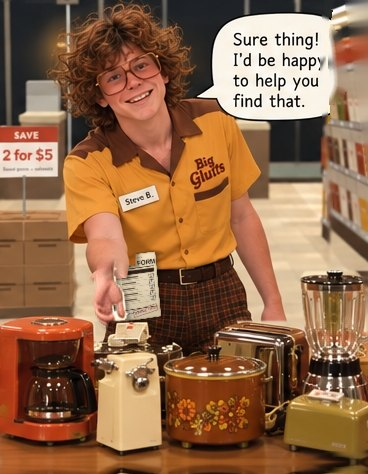
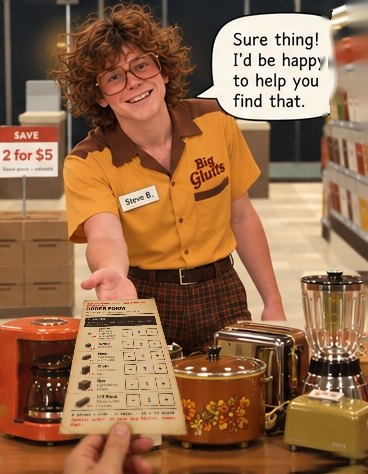
Clerk frames back to the originals, your hand (the user's photo) offering the form in "Sure thing!"; the trip starts wide, zooms and pans, 1.75x slower
Claude-Session: https://claude.ai/code/session_01MBPPNbw7PWwvpcuEmuKfZK

Changed region(s): [[0.1495, 0.5316, 0.5082, 1.0]]

diff --git a/themes/den-trip.js b/themes/den-trip.js
@@ -19,18 +19,19 @@ const DAY_URL = "el-cabeza-trip-day.jpg";
 const DUSK_URL = "el-cabeza-trip-dusk.jpg";
 
 // The timeline (ms from the card starting to fade).
+// (All of it 1.75 times as long as it was, user: it went by too fast.)
 const T = {
-  blackIn: [2600, 4200],     // to black, the car pulling away
-  arrive: 5200,              // the car coming in (heard through the fade-in)
-  fadeUp: [5600, 9600],      // up from black onto the store
-  sweep: [5000, 11900],      // the look round: a slow sweep along the front, close, eye level
-  rise: [11700, 17600],      // then up and out, to the sky and the sphere behind the building
-  say1: [10000, 13200],      // "What the...!??"
-  morph: [11600, 16400],     // into dusk, the sphere in the sky
-  say2: [15200, 17800],      // "Time to get the heck out of here!"
-  blackOut: [17400, 18900],  // to black
-  home: 19000,               // the den, the Room view
-  fadeHome: [19200, 21000],  // up from black, home
+  blackIn: [4550, 7350],     // to black, the car pulling away
+  arrive: 9800,              // the car coming in (heard through the fade-in)
+  fadeUp: [10200, 17000],    // up from black onto the store
+  sweep: [10200, 20800],     // the look round: from the whole storefront, in close and along it
+  rise: [20500, 30800],      // then up and out, to the sky and the sphere behind the building
+  say1: [17500, 23100],      // "What the...!??"
+  morph: [20300, 28700],     // into dusk, the sphere in the sky
+  say2: [26600, 31200],      // "Time to get the heck out of here!"
+  blackOut: [30500, 33100],  // to black
+  home: 33300,               // the den, the Room view
+  fadeHome: [33600, 36800],  // up from black, home
 };
 const LINES = ["What the…!??", "Time to get the heck out of here!"];
 
@@ -214,8 +215,8 @@ export function createTrip({ audio, onReturn }) {
     const w = Math.round(canvas.clientWidth * dpr), h = Math.round(canvas.clientHeight * dpr);
     if (canvas.width !== w || canvas.height !== h) { canvas.width = w; canvas.height = h; }
   }
-  /* One frame. The camera: first close and at eye level, sweeping slowly
-     along the storefront from left to right (taking it in); then, as the
+  /* One frame. The camera: first the whole storefront, then in close and
+     along it, to the right, down to eye level (taking it in); then, as the
      day turns to dusk and the sphere comes through behind the building,
      it tilts up and pulls back, slow and wide, until the sphere looms
      over the store. (Framing in the picture's own terms: a zoom over
@@ -233,9 +234,12 @@ export function createTrip({ audio, onReturn }) {
     const sw = sm(span(t, T.sweep));
     const ri = span(t, T.rise), r = ri * ri * ri * (ri * (ri * 6 - 15) + 10); // (smoother still: slow out, slow in)
     // (A tall screen already crops the picture's sides: less zoom there.)
-    const tall = W < H, z0 = tall ? 1.12 : 1.6;
-    const zoom = z0 + 0.06 * sw - (z0 - 1) * r;             // close, a touch closer, then out to the whole
-    let cx = 0.14 + 0.72 * sw, cy = 0.66 - 0.02 * sw;       // along the front, eye level
+    // (User: zoomed out at first, then zoom and pan.) The whole storefront
+    // as it fades up; then in, closer, and along it to the right; then
+    // up and out again. (A tall screen already crops the sides: less zoom.)
+    const tall = W < H, zs = tall ? 1.18 : 1.5;
+    const zoom = 1 + (zs - 1) * sw - (zs - 1) * r;
+    let cx = 0.36 + 0.46 * sw, cy = 0.5 + 0.14 * sw;        // from the middle, in and along the front, down to eye level
     cx += ((tall ? 0.3 : 0.36) - cx) * r; cy += (0.4 - cy) * r; // up, and toward the sphere
     const s = cover * zoom, dw = iw * s, dh = ih * s;
     const x = Math.min(0, Math.max(W - dw, W / 2 - cx * dw));

diff --git a/tools/tienda_clerk_frames.py b/tools/tienda_clerk_frames.py
@@ -362,249 +362,43 @@ def over(dst, layer, dx=0, dy=0, scale=1.0):
     return np.array(Image.alpha_composite(base, canvas).convert("RGB"))
 
 
-# The order form you hand over, in the clerk's hand in "Sure thing!"
-# (user): a prop of the game's own form (themes/tienda-overlay.js
-# OrderForm: aged cream paper, the department line in red, ORDER FORM in
-# heavy black over a rule, the dark section band, the ruled rows with their
-# quantities in blue, the red stamp), drawn large, then set into the frame
-# standing up in his palm, leaning back a little, his thumb in front of it.
-FONT = "/usr/share/fonts/truetype/liberation/LiberationSans-Bold.ttf"
-MONO = "/usr/share/fonts/truetype/liberation/LiberationMono-Bold.ttf"
-# "Sure thing!": his open hand taken out; in its place his own hand from
-# the walk-away frame (real, curled, the same light), scaled and turned to
-# his wrist here, closed round the form; the form behind his hand and arm,
-# against his palm, rising up beside his arm. (Frame coordinates, after
-# CROP; done before the table's spread goes over, so the appliances stay
-# in front of his hand.)
-OPEN_HAND = (74, 266, 152, 326)  # where the open hand was (skin in here goes)
-GO_HAND = (104, 194, 140, 250)   # the walk-away frame: his curled right hand and the end of his forearm
-GO_WRIST = (122.0, 206.0)        # its wrist's middle there
-SURE_WRIST = (105.5, 271.0)      # and where it joins his arm here
-HAND_SCALE = 1.65
-HAND_TURN = 6.0                  # degrees (his forearm leans a little here)
-SURE_SHEET = [(109, 257), (155, 251), (161, 316), (116, 323)]  # the form: TL, TR, BR, BL (its left edge through the pinch between his thumb and fingers)
-FOREARM = (80, 196, 136, 278)    # his forearm here (stays in front of the form)
+# "Sure thing!" (user, round 5): the frame as it was, and over it the
+# user's own photo of your hand holding the order form out to him
+# (storyboard/offer-hand.png, cut out on alpha). Its form's four corners
+# are set onto a quad tilted back toward his open palm, so the photo's
+# own slight lean is carried on and foreshortened; the hand below the
+# form comes on in by the same mapping, larger as it nears the lens and
+# off the bottom of the shot. Near the camera, so it's a touch soft, in
+# the store's warm light.
+OFFER_SRC = [(144, 71), (833, 98), (919, 1379), (18, 1379)]   # the photo's form: TL, TR, BR, BL
+OFFER_DST = [(84, 300), (154, 298), (186, 428), (58, 432)]    # where they land: its top just under his palm, your wrist off the bottom
 
 
-# "I'll go check on that...": the form carried in his hanging right hand,
-# its top corner pinched in the gap between his thumb and fingers (x
-# 124-126, y 228-236: the floor shows through it), his thumb in front of
-# it; it hangs below, turned a little (so narrower than flat).
-HANG_SHEET = [(124.5, 229), (142, 233), (140, 283), (121, 279)]  # TL (in the pinch), TR, BR, BL
-
-
-def order_form_art(w=448, h=592):
-    from PIL import ImageFont
-    rng = np.random.default_rng(1975)
-    paper = np.zeros((h, w, 3), np.float32) + np.array([240, 230, 206], np.float32)
-    # Age: a soft mottle, a couple of foxing spots, darker toward the edges.
-    mott = cv2.GaussianBlur(rng.normal(0, 1, (h, w)).astype(np.float32), (0, 0), 24)
-    paper += (mott / (np.abs(mott).max() + 1e-6))[..., None] * np.array([6, 7, 10], np.float32)
-    yy, xx = np.mgrid[0:h, 0:w]
-    edge = np.minimum.reduce([xx, yy, w - 1 - xx, h - 1 - yy]).astype(np.float32)
-    paper -= (np.clip(1 - edge / 36, 0, 1) ** 2)[..., None] * np.array([16, 20, 28], np.float32)
-    for cx, cy, r in [(380, 120, 9), (70, 430, 7)]:
-        d = np.hypot(xx - cx, yy - cy)
-        paper -= (np.clip(1 - d / r, 0, 1) ** 0.7)[..., None] * np.array([16, 24, 36], np.float32)
-    im = Image.fromarray(np.clip(paper, 0, 255).astype(np.uint8))
-    g = ImageDraw.Draw(im)
-    INK, RED, BLUE = (40, 30, 24), (154, 59, 48), (38, 58, 140)
-    TYPE, FINE, RULE = (92, 78, 66), (168, 154, 134), (176, 160, 134)
-    f = lambda path, size: ImageFont.truetype(path, size)
-    m = 30
-    g.text((m, 26), "GAMES & HOBBY DEPT. \u00b7 1975", font=f(FONT, 19), fill=RED)
-    g.text((m - 3, 50), "ORDER FORM", font=f(FONT, 60), fill=INK)
-    g.rectangle([m, 122, w - m, 127], fill=INK)
-    # The section band.
-    g.rectangle([m, 142, w - m, 176], fill=(51, 37, 27))
-    g.text((m + 12, 148), "1 \u00b7 PIECES", font=f(FONT, 20), fill=(236, 226, 204))
-    # The rows: the item (type too small to read, as a line of grey), the
-    # quantity box with a figure in blue ink.
-    names = [0.36, 0.30, 0.26, 0.32, 0.28]
-    qty = ["1", "1", "2", "1", "3"]
-    for i, (nw, q) in enumerate(zip(names, qty)):
-        y = 188 + i * 50
-        g.rectangle([m + 4, y + 12, m + 50, y + 17], fill=FINE)  # stock no.
-        g.rectangle([m + 66, y + 9, m + 66 + int(nw * w), y + 18], fill=TYPE)  # name
-        g.rectangle([m + 66, y + 27, m + 66 + int(nw * w * 1.25), y + 31], fill=FINE)  # description
-        bx = w - m - 58
-        g.rectangle([bx, y + 6, bx + 50, y + 40], outline=INK, width=3)
-        g.text((bx + 15, y + 6), q, font=f(MONO, 30), fill=BLUE)
-        g.line([m, y + 48, w - m, y + 48], fill=RULE, width=2)
-    # The foot: the rule, a signature in blue.
-    g.rectangle([m, h - 104, w - m, h - 100], fill=INK)
-    g.text((m, h - 90), "SIGNED", font=f(FONT, 16), fill=RED)
-    pts = [(m + 84 + i * 8, h - 66 + 8 * np.sin(i * 1.3) - i * 0.5) for i in range(22)]
-    g.line(pts, fill=BLUE, width=4, joint="curve")
-    # The red stamp by the signature, at a slant, faint and uneven.
-    st = Image.new("L", (250, 74), 0)
-    sd = ImageDraw.Draw(st)
-    sd.rectangle([4, 4, 245, 69], outline=255, width=6)
-    sd.text((18, 14), "STORE ORDER", font=f(FONT, 37), fill=255)
-    st = st.rotate(9, expand=True, resample=Image.BICUBIC)
-    a = np.array(st).astype(np.float32) / 255 * (0.5 + 0.35 * rng.random(st.size[::-1]))
-    a = np.clip(cv2.GaussianBlur(a, (0, 0), 1.0), 0, 1)
-    arr = np.array(im).astype(np.float32)
-    ox, oy = w - st.size[0] - 22, h - st.size[1] - 18
-    region = arr[oy:oy + st.size[1], ox:ox + st.size[0]]
-    region[:] = region * (1 - a[..., None]) + np.array(RED, np.float32) * a[..., None]
-    return arr.astype(np.uint8)
-
-
-def _skin(reg):
-    R, G, B = reg[..., 0].astype(int), reg[..., 1].astype(int), reg[..., 2].astype(int)
-    return (R > 140) & (R - G > 30) & (R - B > 40)
-
-
-def _capsule(xx, yy, p0, p1, r):
-    """Signed distance to a capsule from p0 to p1, radius r."""
-    (x0, y0), (x1, y1) = p0, p1
-    dx, dy = x1 - x0, y1 - y0
-    t = np.clip(((xx - x0) * dx + (yy - y0) * dy) / (dx * dx + dy * dy + 1e-9), 0, 1)
-    return np.hypot(xx - (x0 + t * dx), yy - (y0 + t * dy)) - r
-
-
-def lift_hand(go):
-    """His curled right hand from the walk-away frame (GO_HAND), off the
-    floor it was shot against: (colour, alpha) at that frame's size. The
-    floor behind it is estimated by painting the hand out; each pixel's
-    share of hand is how far it is from that floor; its colour is the floor
-    taken back out (on the faintest edge pixels, his skin's). The forearm
-    fades in over its top 14 px (it joins his own arm there)."""
-    H_, W_ = go.shape[:2]
-    x0, y0, x1, y1 = GO_HAND
-    reg = go[y0:y1, x0:x1]
-    f = reg.astype(np.float32)
-    core = _skin(reg).astype(np.uint8)
-    n, lab, st, _ = cv2.connectedComponentsWithStats(core, 8)
-    if n > 1:
-        core = (lab == 1 + int(np.argmax(st[1:, cv2.CC_STAT_AREA]))).astype(np.uint8)
-    wide = cv2.dilate(core, np.ones((3, 3), np.uint8), iterations=3)
-    # How far each pixel is from the floor toward his skin (the slit of
-    # floor between thumb and fingers comes out as floor, as it should).
-    floor = np.median(f[wide == 0], axis=0)
-    skinc = np.median(f[core > 0], axis=0)
-    axis = skinc - floor
-    tproj = ((f - floor) @ axis) / (axis @ axis)
-    a = np.clip((tproj - 0.18) / 0.55, 0, 1) * (wide > 0)
-    # (Solid where it's surely hand: his pale highlights included.)
-    solid = cv2.erode(core, np.ones((2, 2), np.uint8)) > 0
-    a[solid] = 1
-    a = cv2.GaussianBlur(a, (0, 0), 0.4)
-    a *= np.clip(np.arange(y1 - y0, dtype=np.float32)[:, None] / 14, 0, 1)
-    fg = floor + (f - floor) / np.maximum(a, 0.5)[..., None]
-    w = np.clip((a - 0.25) / 0.5, 0, 1)[..., None]
-    fg = skinc * (1 - w) + np.clip(fg, 0, 255) * w
-    # (Round the hand, its own skin colour, not black: the scale-up and the
-    # sharpening after it then ring on nothing at its edge.)
-    a = cv2.erode(a, np.ones((2, 2), np.uint8))
-    C = np.zeros((H_, W_, 3), np.float32) + skinc; C[y0:y1, x0:x1] = fg * (a[..., None] > 0.02) + skinc * (a[..., None] <= 0.02)
-    A = np.zeros((H_, W_), np.float32); A[y0:y1, x0:x1] = a
-    return C, A, skinc
-
-
-def hold_order_form(img, partner=None, go=None):
-    """'Sure thing!': the open hand out, the form in, his real hand round
-    it (see the constants above)."""
+def offer_order_form(img):
     H_, W_ = img.shape[:2]
-    base = img.copy()
-    # His skin here (the forearm, near the wrist: the back of a hand is
-    # the forearm's colour, not the palm's).
-    fx0, fy0, fx1, fy1 = FOREARM
-    freg = img[fy0:fy1, fx0:fx1]
-    fsk = _skin(freg)
-    skin_here = np.median(freg[fsk].reshape(-1, 3).astype(np.float32)[-400:], axis=0)
-    # The open hand out (its skin in OPEN_HAND below the wrist), the
-    # background painted back from round it: the "Hi there" frame (the same
-    # camera) where it shows no hand of its own, the rest painted in.
-    x0, y0, x1, y1 = OPEN_HAND
-    hand = np.zeros((H_, W_), np.uint8)
-    hand[y0:y1, x0:x1] = _skin(base[y0:y1, x0:x1])
-    hand[:274] = 0
-    hand = cv2.dilate(hand, np.ones((3, 3), np.uint8), iterations=2) > 0
-    if partner is not None:
-        ok = np.zeros((H_, W_), bool)
-        ok[y0:y1, x0:x1] = ~cv2.dilate(_skin(partner[y0:y1, x0:x1]).astype(np.uint8), np.ones((5, 5), np.uint8), iterations=2).astype(bool)
-        take = hand & ok
-        base[take] = partner[take]
-        hand &= ~take
-    base = cv2.inpaint(base, hand.astype(np.uint8) * 255, 5, cv2.INPAINT_TELEA)
-    out = base.astype(np.float32)
-    # The form: up beside his arm, against his palm, its foot in his hand;
-    # lit from above, its shadow on him.
-    art = order_form_art().astype(np.float32)
-    ah, aw = art.shape[:2]
-    art *= np.linspace(1.0, 0.86, ah, dtype=np.float32)[:, None, None] * np.array([1.0, 0.97, 0.92], np.float32)
-    small = art
-    for _ in range(2):
-        small = cv2.resize(small, (small.shape[1] // 2, small.shape[0] // 2), interpolation=cv2.INTER_AREA)
-    sh_, sw_ = small.shape[:2]
-    M = cv2.getPerspectiveTransform(np.float32([[0, 0], [sw_, 0], [sw_, sh_], [0, sh_]]), np.float32(SURE_SHEET))
-    sheet = cv2.GaussianBlur(cv2.warpPerspective(small, M, (W_, H_), flags=cv2.INTER_AREA), (0, 0), 0.45)
-    alpha = cv2.GaussianBlur(cv2.warpPerspective(np.ones((sh_, sw_), np.float32), M, (W_, H_), flags=cv2.INTER_LINEAR), (0, 0), 0.45)
-    shd = cv2.GaussianBlur(np.roll(np.roll(alpha, 3, axis=1), 2, axis=0), (0, 0), 2.2) * 0.35
-    out *= (1 - shd)[..., None]
-    out = out * (1 - alpha[..., None]) + sheet * alpha[..., None]
-    # His forearm back in front of it (his own pixels).
-    arm = np.zeros((H_, W_), np.uint8)
-    arm[fy0:fy1, fx0:fx1] = fsk
-    n, lab, st, _ = cv2.connectedComponentsWithStats(arm, 8)
-    if n > 1:
-        arm = (lab == 1 + int(np.argmax(st[1:, cv2.CC_STAT_AREA]))).astype(np.uint8)
-    arm = cv2.morphologyEx(arm, cv2.MORPH_CLOSE, np.ones((3, 3), np.uint8))
-    am = cv2.GaussianBlur(arm.astype(np.float32), (0, 0), 0.6)
-    ash = cv2.GaussianBlur(np.roll(np.roll(am, 3, axis=1), 2, axis=0), (0, 0), 1.6) * alpha * 0.4
-    out *= (1 - ash * (1 - am))[..., None]
-    out = out * (1 - am[..., None]) + img.astype(np.float32) * am[..., None]
-    # His hand: lifted from the walk-away frame, its colour brought to his
-    # skin here, scaled and turned about its wrist onto his wrist here.
-    if go is not None:
-        C, A, skinc = lift_hand(go)
-        C *= (skin_here / np.maximum(skinc, 1))[None, None, :]
-        Mr = cv2.getRotationMatrix2D(GO_WRIST, HAND_TURN, HAND_SCALE)
-        Mr[:, 2] += np.array(SURE_WRIST) - np.array(GO_WRIST)
-        Cw = cv2.warpAffine(C, Mr, (W_, H_), flags=cv2.INTER_CUBIC, borderMode=cv2.BORDER_REPLICATE)
-        Aw = np.clip(cv2.warpAffine(A, Mr, (W_, H_), flags=cv2.INTER_LINEAR), 0, 1)
-        # A touch of sharpening back after the scale-up, and the photo's grain.
-        Cw = np.clip(Cw + 0.6 * (Cw - cv2.GaussianBlur(Cw, (0, 0), 1.2)), 0, 255)
-        Cw += np.random.default_rng(11).normal(0, 2.2, Cw.shape) * Aw[..., None]
-        hs = cv2.GaussianBlur(np.roll(np.roll(Aw, 3, axis=1), 3, axis=0), (0, 0), 2.0) * 0.42
-        out *= (1 - hs * (1 - Aw))[..., None]
-        out = out * (1 - Aw[..., None]) + Cw * Aw[..., None]
-    return np.clip(out, 0, 255).astype(np.uint8)
-
-
-def hang_order_form(img):
-    """'I'll go check on that...': the form behind his hand, its corner in
-    the pinch between thumb and fingers, hanging below; his hand (lifted
-    off the floor as for 'Sure thing!', lift_hand) back over it, so the
-    gap shows the paper's edge and his thumb lies across its margin."""
-    H_, W_ = img.shape[:2]
-    art = order_form_art().astype(np.float32)
-    ah, aw = art.shape[:2]
-    art *= np.linspace(0.96, 0.84, ah, dtype=np.float32)[:, None, None] * np.array([0.98, 0.95, 0.89], np.float32)
-    small = art
-    for _ in range(3):
-        small = cv2.resize(small, (small.shape[1] // 2, small.shape[0] // 2), interpolation=cv2.INTER_AREA)
-    sh_, sw_ = small.shape[:2]
-    M = cv2.getPerspectiveTransform(np.float32([[0, 0], [sw_, 0], [sw_, sh_], [0, sh_]]), np.float32(HANG_SHEET))
-    sheet = cv2.GaussianBlur(cv2.warpPerspective(small, M, (W_, H_), flags=cv2.INTER_AREA), (0, 0), 0.35)
-    alpha = cv2.GaussianBlur(cv2.warpPerspective(np.ones((sh_, sw_), np.float32), M, (W_, H_), flags=cv2.INTER_LINEAR), (0, 0), 0.4)
-    # The bend where it hangs from the pinch: its near side a touch
-    # brighter, the far side turned from the light.
-    yy, xx = np.mgrid[0:H_, 0:W_].astype(np.float32)
-    sheet *= (1.03 - 0.12 * np.clip((xx - 121) / 21, 0, 1))[..., None]
+    ph = np.array(Image.open(os.path.join(SB, "offer-hand.png")).convert("RGBA")).astype(np.float32)
+    # (Shrunk most of the way first, so the warp has little left to drop.)
+    k = 3
+    ph = cv2.resize(ph, (ph.shape[1] // k, ph.shape[0] // k), interpolation=cv2.INTER_AREA)
+    src = np.float32(OFFER_SRC) / k
+    M = cv2.getPerspectiveTransform(src, np.float32(OFFER_DST))
+    rgb, a = ph[..., :3], ph[..., 3] / 255.0
+    pm = cv2.warpPerspective(rgb * a[..., None], M, (W_, H_), flags=cv2.INTER_AREA)
+    aw = cv2.warpPerspective(a, M, (W_, H_), flags=cv2.INTER_AREA)
+    # Near the lens: softer toward the bottom (the hand), crisp by him.
+    yy = np.mgrid[0:H_, 0:W_][0].astype(np.float32)
+    near = np.clip((yy - 360) / 110, 0, 1)
+    soft_p, soft_a = cv2.GaussianBlur(pm, (0, 0), 1.3), cv2.GaussianBlur(aw, (0, 0), 1.3)
+    pm = pm * (1 - near[..., None]) + soft_p * near[..., None]
+    aw = aw * (1 - near) + soft_a * near
+    col = pm / np.maximum(aw, 1e-3)[..., None]
+    # The store's light: warm, a little dimmer than the photo's.
+    col *= np.array([1.0, 0.94, 0.84], np.float32) * 0.93
     out = img.astype(np.float32)
-    sh = cv2.GaussianBlur(np.roll(np.roll(alpha, 4, axis=1), 3, axis=0), (0, 0), 2.6) * 0.2
-    out *= (1 - sh)[..., None]
-    out = out * (1 - alpha[..., None]) + sheet * alpha[..., None]
-    # His hand back over it (only where there's sheet behind; elsewhere
-    # the photo is untouched), and its shadow on the paper.
-    C, A, _ = lift_hand(img)
-    A = A * (alpha > 0.02)
-    hs = cv2.GaussianBlur(np.roll(np.roll(A, 2, axis=1), 2, axis=0), (0, 0), 1.3) * alpha * 0.4
-    out *= (1 - hs * (1 - A))[..., None]
-    out = out * (1 - A[..., None]) + C * A[..., None]
+    # A faint shadow it throws on what's under it.
+    shd = cv2.GaussianBlur(np.roll(aw, 8, axis=0), (0, 0), 6) * 0.2
+    out *= (1 - shd)[..., None]
+    out = out * (1 - aw[..., None]) + col * aw[..., None]
     return np.clip(out, 0, 255).astype(np.uint8)
 
 
@@ -618,16 +412,10 @@ def main():
     os.makedirs(OUT, exist_ok=True)
     for name, img in cleaned.items():
         sheet = CELLS[name][0]
-        if name == "clerk-sure":
-            # (Before the spread goes over: the appliances stay in front.)
-            cx0, cy0, cx1, cy1 = CROP[sheet]
-            fr = lambda k: cleaned[k][cy0:cy1, cx0:cx1]
-            img = img.copy()
-            img[cy0:cy1, cx0:cx1] = hold_order_form(fr("clerk-sure"), fr("clerk-hello"), fr("clerk-go"))
         out = over(img, layer, dy=SPREAD_DY[sheet])
         im = Image.fromarray(out).crop(CROP[sheet])
-        if name == "clerk-go":
-            im = Image.fromarray(hang_order_form(np.array(im)))
+        if name == "clerk-sure":
+            im = Image.fromarray(offer_order_form(np.array(im)))
         im.save(os.path.join(OUT, f"{name}.jpg"), quality=86, optimize=True, progressive=True)
         if a.debug:
             os.makedirs(a.debug, exist_ok=True)

diff --git a/PROJECT_MEMORY.md b/PROJECT_MEMORY.md
@@ -4405,3 +4405,30 @@ phone menu until "Start the story over" (which clears it).
   asleep (2.15x, a slow push in to 2.27x), and from 0.55 s in it pulls out
   over a second to the whole table; the words and the stamp are overlays
   (the character generator), so they don't zoom.
+- The clerk's hands, round 4 (user: atrocious; back to the original
+  frames). Every hand edit is gone: clerk-go is the original again
+  (from 09555fe), and clerk-sure is the original with one thing over it:
+  the user's own photo of your hand holding the order form out to him
+  (assets/tienda/storyboard/offer-hand.png, RGBA cut-out, source only,
+  not shipped). tools/tienda_clerk_frames.py offer_order_form: the
+  photo's form corners (OFFER_SRC) mapped by one homography onto
+  OFFER_DST (top edge just under his open palm at y ~300, bottom ~430),
+  so the photo's own lean carries on, the form foreshortened, and the
+  hand below comes on larger toward the lens with the wrist off the
+  bottom of the shot. Shrunk 3x (area) before the warp; softer toward
+  the bottom (blur 1.3 below y 360); warmed and dimmed to the store
+  (x 1.0/0.94/0.84, 0.93); a faint shadow on the table under it. Laid
+  over the finished frame (in front of the spread). lift_hand, the
+  painted form (order_form_art) and the rest of rounds 1-3 are removed.
+  After running the script, check out every other frame again (JPEG
+  bytes differ even with identical pixels).
+- The trip, round 2 (user: a little zoomed in; start out wider, then zoom
+  and pan; everything 0.75x slower again): den-trip.js T is 1.75x the
+  old timeline (blackIn 4550-7350, arrive 9800, fadeUp 10200-17000,
+  sweep 10200-20800, say1 17500-23100, morph 20300-28700, rise 20500-
+  30800, say2 26600-31200, blackOut 30500-33100, home 33300, fadeHome
+  33600-36800). The camera opens on the whole storefront (zoom 1), zooms
+  in (to 1.5, 1.18 on a tall screen) while panning right through the
+  sweep, then pulls back up and out through the rise. e2e-story's trip
+  waits raised to 20 s. The car sounds are still synthesized; the user
+  is uploading real ones to replace driveAway/arrive.
